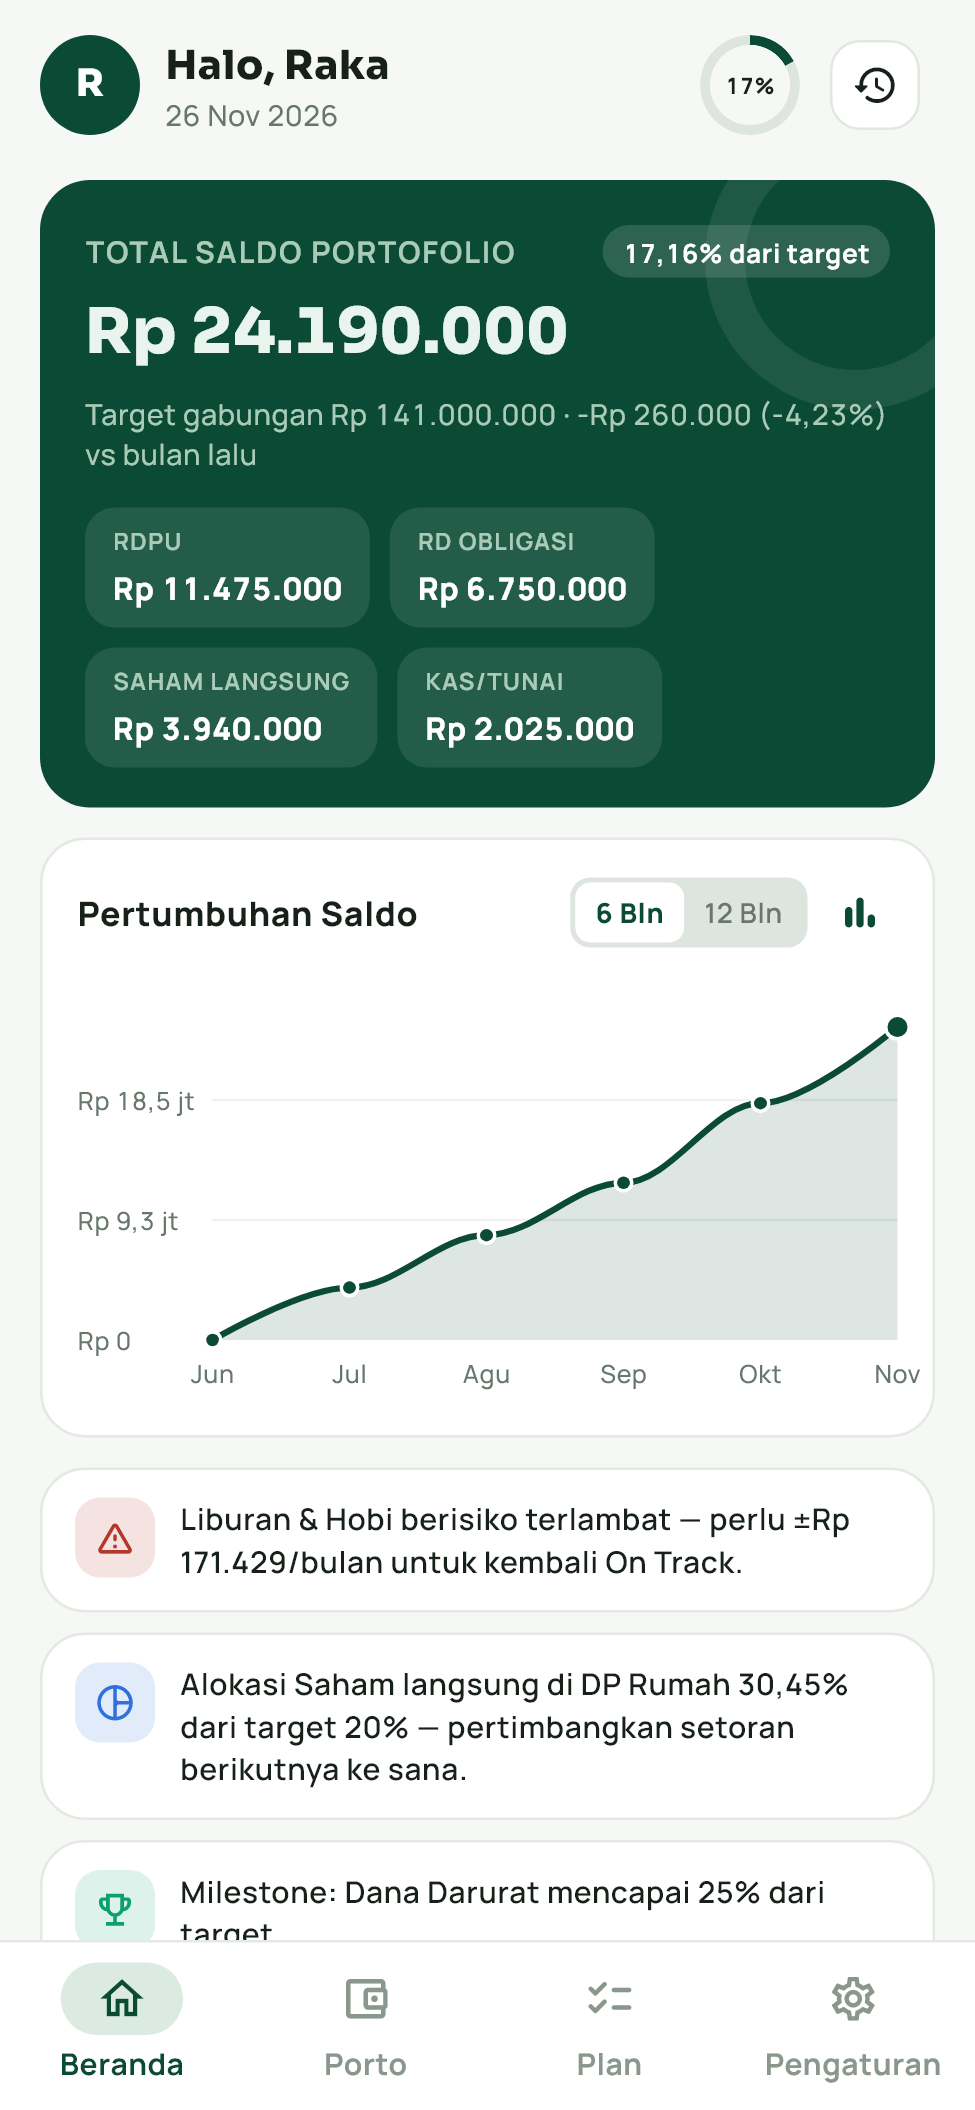
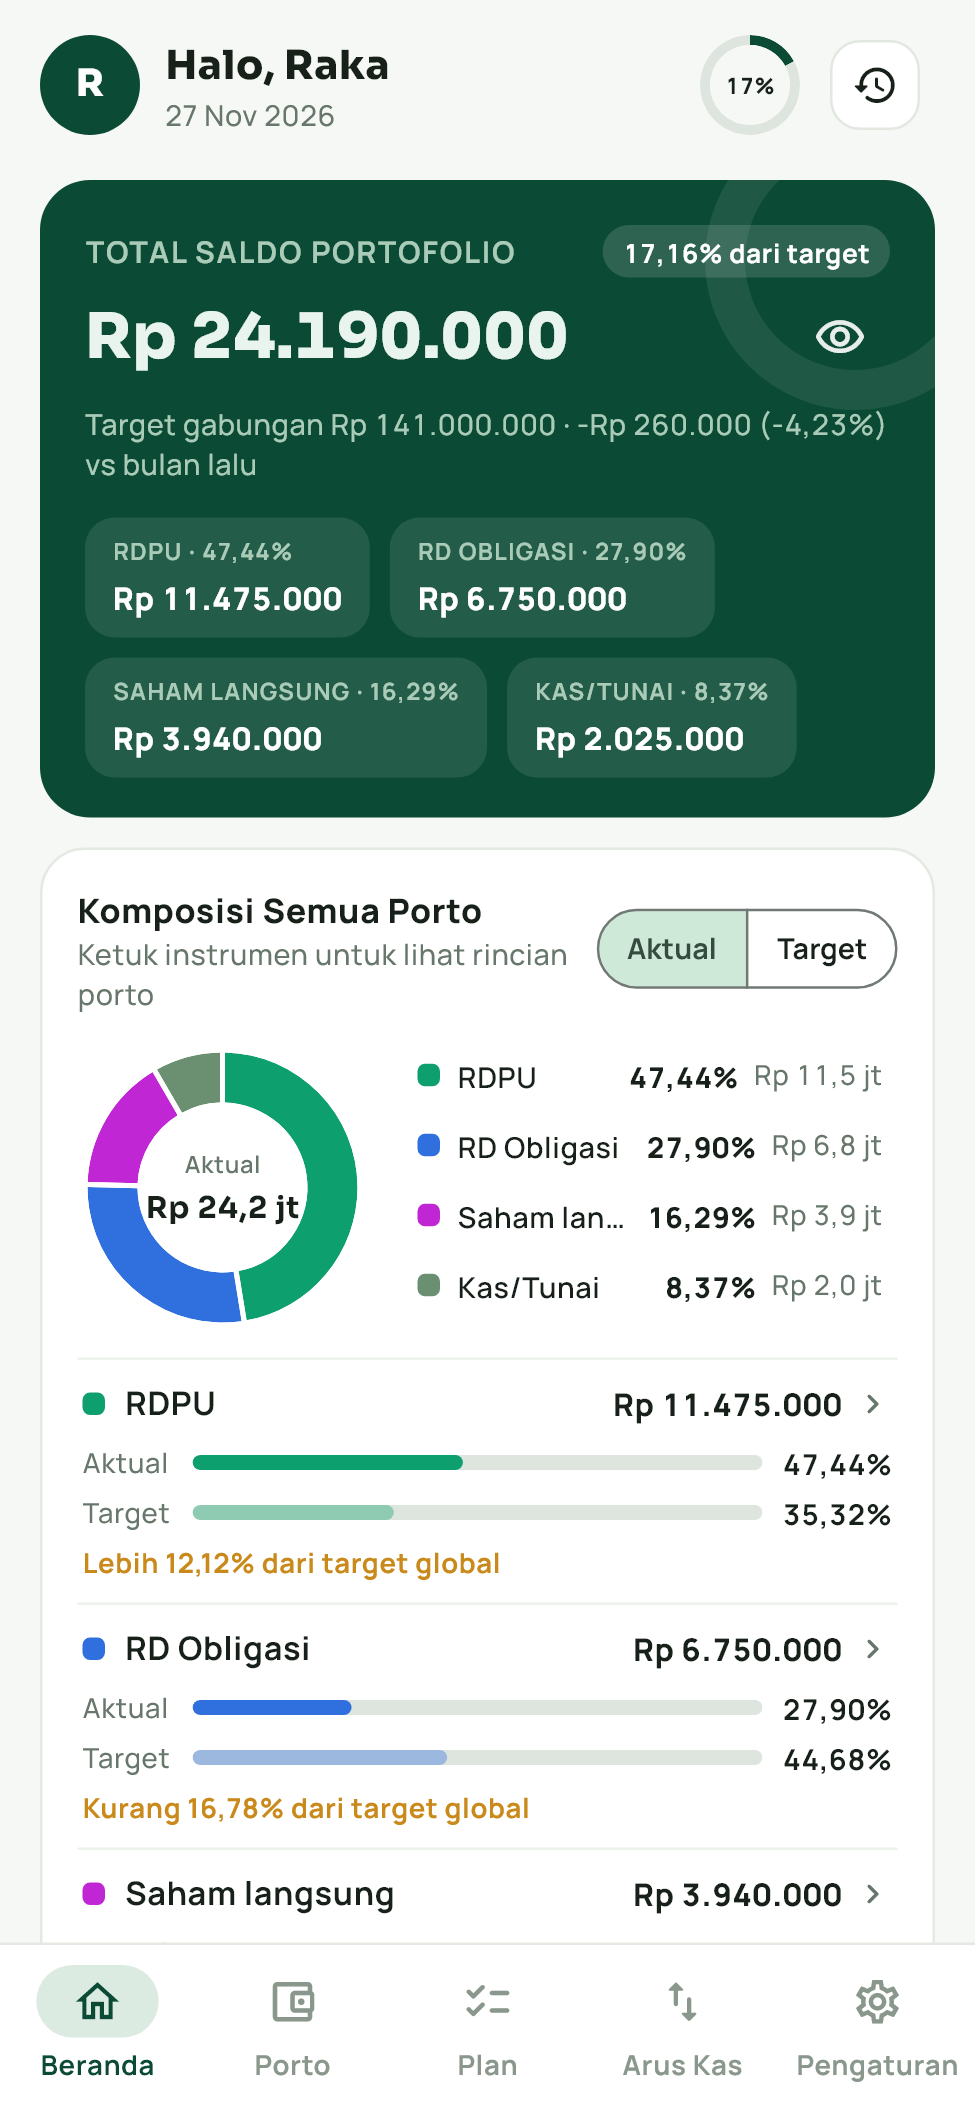
Update README, PRIVACY, docs/ARCHITECTURE, dan 9 screenshot preview v3.3.0

diff --git a/README.md b/README.md
@@ -1,18 +1,19 @@
 <div align="center">
   <img src="assets/logo/planora_logo.svg" alt="Logo Planora" width="104" height="104" />
   <h1>Planora</h1>
-  <p><strong>Aplikasi Android untuk merencanakan banyak tujuan keuangan dalam satu batas aman setoran bulanan — rapi, praktis, dan 100% offline.</strong></p>
+  <p><strong>Aplikasi Android untuk merencanakan banyak tujuan keuangan, memantau komposisi aset, dan mencatat arus kas harian dalam satu tempat — rapi, praktis, dan 100% offline.</strong></p>
 
   <p>
     <a href="https://github.com/Dzakiamriz22/Planora/releases/latest">
-      <img src="https://img.shields.io/badge/Unduh_APK-v3.1.0-0B4A34?style=for-the-badge&logo=android&logoColor=white" alt="Unduh APK Planora v3.1.0" />
+      <img src="https://img.shields.io/badge/Unduh_APK-v3.3.0-0B4A34?style=for-the-badge&logo=android&logoColor=white" alt="Unduh APK Planora v3.3.0" />
     </a>
   </p>
 
   <p>
-    <img src="https://img.shields.io/badge/Versi-3.1.0-0B4A34?style=flat-square" alt="Versi 3.1.0" />
+    <img src="https://img.shields.io/badge/Versi-3.3.0-0B4A34?style=flat-square" alt="Versi 3.3.0" />
     <img src="https://img.shields.io/badge/Android-Offline-3DDC84?style=flat-square&logo=android&logoColor=white" alt="Android Offline" />
     <img src="https://img.shields.io/badge/Flutter-3.50+-02569B?style=flat-square&logo=flutter&logoColor=white" alt="Flutter" />
+    <img src="https://img.shields.io/badge/Skema_DB-v6-43524A?style=flat-square" alt="Skema DB v6" />
     <img src="https://img.shields.io/badge/Lisensi-MIT-43524A?style=flat-square" alt="Lisensi MIT" />
   </p>
 </div>
@@ -21,70 +22,73 @@
 
 ## Tentang Planora
 
-Menyiapkan dana darurat, DP rumah, kendaraan, dan tabungan jangka panjang secara bersamaan sering membingungkan jika dicatat terpisah. Total setoran bisa tanpa sadar melewati kemampuan bulanan, sementara perkiraan waktu tercapainya tidak ikut menyesuaikan saat nominal berubah.
+Menyiapkan dana darurat, DP rumah, kendaraan, dan tabungan jangka panjang sekaligus mengatur arus kas bulanan sering membingungkan jika dicatat terpisah. Total setoran bisa tanpa sadar melewati kemampuan bulanan, komposisi aset tidak terlihat menyeluruh, dan sisa kas bulanan sulit dipantau.
 
-**Planora** menyatukan semua rencana tersebut di satu tempat. Cukup atur penghasilan, biaya hidup, dan tujuan keuanganmu — sisanya dihitung otomatis dan tersimpan sepenuhnya di HP tanpa akun maupun internet.
+**Planora** menyatukan perencanaan portofolio, pembagian setoran bulanan (**Plan**), dan catatan **Arus Kas** (pemasukan & pengeluaran) di satu aplikasi. Semua perhitungan berjalan otomatis dan seluruh data tersimpan lokal di HP tanpa akun maupun izin internet.
 
-### Yang Bisa Dilakukan
+### Fitur Utama
 
-- **Jaga batas aman setoran bulanan (plafon)** — Dihitung otomatis dari gaji dikurangi biaya hidup minimum. Jika rencana melebihi batas, Planora menampilkan pratinjau penyesuaian porsi tujuan lain terlebih dahulu sebelum disimpan.
-- **Plan berbasis persentase** — Bagi total setoran bulananmu ke tiap portofolio memakai persen (dilengkapi slider, donut live, preset cepat, mode kalkulator rupiah, dan dukungan simpan draf). Saat gaji berubah, cukup ganti total Plan tanpa mengedit satu per satu.
-- **Tiga jenis tujuan yang fleksibel** — *Tunai Penuh* untuk dana darurat atau liburan, *DP + Biaya* agar harga penuh tetap tercatat sementara target nabung fokus ke DP, serta *Tanpa Target* untuk tabungan atau investasi rutin.
-- **Komponen instrumen berbasis persen & Saham berbasis lot** — Atur porsi instrumen (RDPU, Obligasi, Campuran, RD Saham, Emas, Kas, Deposito) dengan persen, serta catat **Saham langsung** secara akurat dalam **lot** (`1 lot = 100 lembar`) lengkap dengan kode saham, harga beli rata-rata, penjualan metode biaya rata-rata, dan riwayat transaksi.
-- **Pantau progres lewat grafik yang jelas** — Donut alokasi (Aktual vs Target), perbandingan alokasi per instrumen, komposisi per kode saham, grafik pertumbuhan saldo 6/12 bulan, ringkasan setoran bulanan, status progres, insight otomatis, serta streak menabung.
-- **Pengingat lokal tanpa internet** — Atur pengingat setoran bulanan sesuai Plan aktif dan notifikasi milestone (25/50/75/100%) langsung dari HP dengan izin notifikasi resmi Android 13+. Tidak ada data yang dikirim ke server mana pun.
-- **Cadangan data mandiri (JSON)** — Simpan file cadangan langsung ke penyimpanan HP atau bagikan, lalu pulihkan kembali kapan dibutuhkan (kompatibel lintas versi v1–v3.1).
+- **Batas Tabungan Bulanan & Rebalance Otomatis** — Dihitung dari gaji dikurangi biaya hidup minimum. Jika total rencana setoran melewati batas, Planora menampilkan pratinjau penyesuaian proporsional sebelum disimpan.
+- **Plan Berbasis Persentase & Nominal Tepat** — Bagi dana tabungan bulanan ke tiap portofolio lewat mode **% Persen** (slider, donut live, preset cepat, simpan draf) atau **Rp Nominal** yang tersimpan persis tanpa bergeser akibat pembulatan. Plan aktif otomatis memperbarui setoran bulanan tiap portofolio dan dapat dinonaktifkan kapan saja.
+- **Komposisi Instrumen Per Porto & Global** — Atur porsi instrumen (RDPU, Obligasi, Campuran, RD Saham, Emas, Kas, Deposito, atau custom) per portofolio, lalu pantau agregasi seluruh aset lewat kartu **Komposisi Semua Porto** (persen aktual global, target global tertimbang, serta rincian per portofolio).
+- **Saham Langsung Berbasis Lot (`1 lot = 100 lembar`)** — Catat beli/jual saham langsung berdasarkan kode saham, jumlah lot, dan harga per lembar dengan perhitungan harga rata-rata (average cost), total modal, dan riwayat transaksi lengkap.
+- **Arus Kas (Pemasukan + Pengeluaran)** — Catat pemasukan dan pengeluaran harian dalam ≤ 3 ketukan dengan kategori terpisah per jenis (5 kategori pemasukan + 10 kategori pengeluaran bawaan + kategori custom). Pantau **Sisa Kas Bulan Ini** (`Pemasukan aktual − Pengeluaran − Setoran ke portofolio`), budget pengeluaran (On Track / Hati-hati / Over Budget), donut kategori, ringkasan mingguan, dan grafik 6 bulan vs budget.
+- **Mode Privasi (Sembunyikan Nominal)** — Ketuk ikon mata di Beranda atau saklar di Pengaturan untuk menyamarkan seluruh angka rupiah (`Rp ••••••`) di layar, grafik, hingga isi notifikasi — sementara persentase, progress bar, dan status tetap dapat dibaca.
+- **Pengingat Lokal Offline** — Pengingat setoran bulanan sesuai Plan aktif, pengingat catat arus kas harian, dan notifikasi milestone portofolio (`25/50/75/100%`) langsung di perangkat tanpa server.
+- **Cadangan Data Mandiri (JSON)** — Ekspor dan pulihkan seluruh data (termasuk Arus Kas, Saham, dan Plan) lewat file JSON lokal dengan kompatibilitas lintas versi.
+
+---
+
+## Preview Aplikasi
+
+### 5 Tab Utama
+
+| Beranda | Portofolio | Plan | Arus Kas | Pengaturan |
+| :---: | :---: | :---: | :---: | :---: |
+| <img src="docs/screenshots/01-beranda.png" alt="Beranda Planora" width="170" /> | <img src="docs/screenshots/03-portofolio.png" alt="Portofolio Planora" width="170" /> | <img src="docs/screenshots/04-plan.png" alt="Plan Planora" width="170" /> | <img src="docs/screenshots/05-arus-kas.png" alt="Arus Kas Planora" width="170" /> | <img src="docs/screenshots/06-pengaturan.png" alt="Pengaturan Planora" width="170" /> |
+
+### Mode Privasi, Detail Portofolio & Formulir
+
+| Mode Privasi (Beranda) | Detail Porto & Saham Lot | Form Portofolio | Form Plan |
+| :---: | :---: | :---: | :---: |
+| <img src="docs/screenshots/02-beranda-privasi.png" alt="Beranda Mode Privasi" width="195" /> | <img src="docs/screenshots/07-detail-porto.png" alt="Detail Porto dan Saham Lot" width="195" /> | <img src="docs/screenshots/08-form-porto.png" alt="Form Portofolio" width="195" /> | <img src="docs/screenshots/09-form-plan.png" alt="Form Plan" width="195" /> |
+
+<sub>*Angka, transaksi, dan kode saham pada gambar di atas hanya contoh ilustrasi. Instalasi baru selalu dimulai dari keadaan kosong (`Rp 0`).*</sub>
 
 ---
 
 ## Unduh & Pasang di Android
 
-Untuk langsung mencoba di HP Android tanpa perlu instalasi alat pengembang:
-
-1. **Unduh file APK:** [Planora-v3.1.0.apk](https://github.com/Dzakiamriz22/Planora/releases/download/v3.1.0/Planora-v3.1.0.apk) *(atau pilih versi di halaman [Releases](https://github.com/Dzakiamriz22/Planora/releases/latest))*.
-2. Buka file `.apk` yang selesai diunduh di HP.
-3. Jika muncul permintaan izin *Instal aplikasi dari sumber tidak dikenal*, izinkan agar pemasangan bisa dilanjutkan.
-4. Saat pertama kali dibuka, Planora mulai dalam keadaan kosong (`Rp 0`) supaya kamu bisa langsung mengisi rencana sesuai kondisi sendiri.
+1. **Unduh APK terbaru:** [Planora-v3.3.0.apk](https://github.com/Dzakiamriz22/Planora/releases/download/v3.3.0/Planora-v3.3.0.apk) *(atau pilih rilis di halaman [Releases](https://github.com/Dzakiamriz22/Planora/releases/latest))*.
+2. Buka file `.apk` di HP Android kamu lalu pilih **Instal / Update** *(data dari versi lama otomatis termigrasi aman)*.
+3. Jika diminta izin *Instal aplikasi dari sumber tidak dikenal*, izinkan untuk melanjutkan pemasangan.
 
 ---
 
-## Tampilan Aplikasi
+## Teknologi & Dokumentasi
 
-### Halaman Utama
+- **Flutter & Dart** — Antarmuka adaptif mode terang/gelap, logo vektor **Tangga Tujuan**, dan font lokal (`Sora`, `Manrope`, `JetBrains Mono`) agar tetap tajam saat offline.
+- **Drift (SQLite, skema v6)** — 11 tabel lokal dengan migrasi bertahap yang teruji dan terverifikasi.
+- **Riverpod** — State management reaktif untuk sinkronisasi langsung antar layar.
+- **fl_chart** — Donut alokasi, bar perbandingan Aktual vs Target, grafik pertumbuhan saldo 6/12 bulan, stacked bar setoran, sparkline, dan grafik pengeluaran 6 bulan vs budget.
+- **flutter_local_notifications** — Pengingat lokal di perangkat dengan izin minimal (`POST_NOTIFICATIONS` & `RECEIVE_BOOT_COMPLETED`).
+- **go_router** — Navigasi 5 tab utama (`StatefulShellRoute.indexedStack`) dan rute detail/formulir.
 
-| Beranda | Portofolio | Plan | Pengaturan |
-| :---: | :---: | :---: | :---: |
-| <img src="docs/screenshots/01-beranda.png" alt="Beranda Planora" width="210" /> | <img src="docs/screenshots/02-portofolio.png" alt="Portofolio Planora" width="210" /> | <img src="docs/screenshots/03-plan.png" alt="Plan Planora" width="210" /> | <img src="docs/screenshots/04-pengaturan.png" alt="Pengaturan Planora" width="210" /> |
-
-### Detail & Formulir
-
-| Detail Porto & Saham Lot | Form Porto | Form Plan (%) |
-| :---: | :---: | :---: |
-| <img src="docs/screenshots/05-detail-porto.png" alt="Detail Porto" width="230" /> | <img src="docs/screenshots/06-form-porto.png" alt="Form Porto" width="230" /> | <img src="docs/screenshots/07-form-plan.png" alt="Form Plan" width="230" /> |
-
-<sub>*Angka dan kode pada gambar di atas hanya contoh ilustrasi. Instalasi baru selalu dimulai dari kosong tanpa data bawaan.*</sub>
-
----
-
-## Teknologi
-
-- **Flutter & Dart** — Antarmuka bersih dengan dukungan mode terang/gelap mengikuti sistem, logo vektor **Tangga Tujuan**, dan font lokal (Sora & Manrope) agar tetap rapi saat offline.
-- **Drift (SQLite)** — Penyimpanan data lokal di perangkat dengan migrasi skema aman dan struktur siap cloud.
-- **Riverpod** — Pengelolaan state reaktif agar perubahan angka langsung terlihat di seluruh layar.
-- **fl_chart** — Visualisasi donut, bar perbandingan, grafik pertumbuhan saldo, dan sparkline.
-- **flutter_local_notifications** — Pengingat lokal di perangkat (`POST_NOTIFICATIONS` & `RECEIVE_BOOT_COMPLETED` saja, tanpa izin internet).
-- **go_router** — Navigasi antar halaman dan 4 tab utama.
+Dokumentasi tambahan:
+- [Arsitektur & Skema Database](docs/ARCHITECTURE.md)
+- [Kebijakan Privasi](PRIVACY.md)
 
 ---
 
 ## Menjalankan dari Kode Sumber
 
-Untuk menjalankan atau mengembangkan proyek ini secara lokal, pastikan **Flutter SDK (3.50+)**, **Java JDK 17**, dan **Android SDK** sudah terpasang.
+Pastikan **Flutter SDK (3.50+)**, **Java JDK 17**, dan **Android SDK** sudah terpasang.
 
 ```bash
 git clone https://github.com/Dzakiamriz22/Planora.git
 cd Planora
 flutter pub get
+flutter analyze
 flutter test
 flutter run
 ```
@@ -93,8 +97,8 @@ flutter run
 
 ## Privasi & Batasan
 
-- **Sepenuhnya lokal di perangkat:** Planora tidak memiliki server, tidak memerlukan akun, tidak memuat iklan maupun pelacak, tidak meminta izin internet, dan tidak terhubung ke rekening bank atau akun investasi mana pun. Selengkapnya dapat dibaca di [PRIVACY.md](PRIVACY.md).
-- **Alat bantu perencanaan:** Planora dibuat sebagai catatan dan kalkulator perencanaan pribadi, bukan penasihat keuangan. Estimasi waktu tercapai maupun simulasi cicilan bersifat ilustratif sesuai angka yang kamu masukkan.
+- **100% offline & lokal:** Tanpa server, tanpa akun, tanpa iklan/pelacak, **tanpa izin internet**, tanpa izin penyimpanan, dan tidak terhubung ke rekening bank atau sekuritas mana pun.
+- **Bukan penasihat keuangan:** Estimasi waktu tercapai, proyeksi, dan simulasi cicilan bersifat ilustratif berdasarkan angka yang kamu masukkan sendiri.
 
 ---
 

diff --git a/docs/ARCHITECTURE.md b/docs/ARCHITECTURE.md
@@ -1,0 +1,59 @@
+# Arsitektur & Skema Database Planora (v3.3.0)
+
+Dokumen ini merangkum struktur kode, lapisan perhitungan, skema database SQLite (Drift), dan aturan privasi yang berjalan di kode Planora saat ini.
+
+## 1. Struktur Proyek
+
+```text
+lib/
+├── app.dart                         # Router GoRouter (5 tab utama + rute detail/form)
+├── main.dart                        # Entry point, inisialisasi DB & notifikasi tanpa minta izin
+├── core/
+│   ├── calc/
+│   │   ├── planora_calc.dart        # Plafon nabung, kebutuhan bulanan, rebalance, cicilan
+│   │   ├── planora_v22_calc.dart    # Persen komponen, auto-balance, split setoran, insight, streak
+│   │   ├── plan_percent_calc.dart   # Plan berbasis persen (sharePercentX100) & preset
+│   │   ├── stock_lot_calc.dart      # Saham langsung berbasis lot (1 lot = 100 lbr, average cost)
+│   │   ├── global_composition_calc.dart # Agregasi persen instrumen lintas semua portofolio
+│   │   └── cash_flow_calc.dart      # Arus kas bulanan, sisa kas, budget status, saran anti-dobel
+│   ├── format/formatters.dart       # Formatter rupiah/persen/tanggal + lapisan Mode Privasi terpusat
+│   ├── notifications/reminder_service.dart # Penjadwal lokal & rationale dialog Android 13+
+│   └── theme/                       # Token warna, tipografi lokal (Sora/Manrope/JetBrains Mono)
+├── data/
+│   ├── db/
+│   │   ├── tables.dart              # Definisi 11 tabel Drift
+│   │   ├── app_database.dart        # Migrasi skema 1 -> 6 yang idempotent & terverifikasi
+│   │   └── seed_data.dart           # Initial state kosong + seed 5 kategori pemasukan & 10 pengeluaran
+│   └── repositories/                # Portfolio, Plan, Stock, CashFlow, Profile, Settings (JSON backup)
+├── features/
+│   ├── home/                        # Beranda, GlobalCompositionCard, Arus Kas ringkas
+│   ├── portfolios/                  # Daftar, Detail, Form Porto, Setoran, Saham Lot, Riwayat
+│   ├── plans/                       # Daftar & Form Plan (% Persen / Rp Nominal tepat)
+│   ├── cashflow/                    # Tab Arus Kas, entri cepat Pemasukan/Pengeluaran, kelola kategori
+│   ├── settings/                    # Profil Keuangan, Mode Privasi, Pengingat Lokal, Ekspor/Impor/Reset
+│   ├── profile/                     # Profil lokal & preferensi tema
+│   └── onboarding/ & splash/
+└── widgets/                         # Komponen UI bersama, grafik fl_chart, logo vektor Tangga Tujuan
+```
+
+## 2. Skema Database (Drift — `schemaVersion: 6`)
+
+| No | Tabel | Keterangan |
+|---:|---|---|
+| 1 | `user_profiles` | Profil lokal (nama sapaan, foto lokal, preferensi tema) |
+| 2 | `settings` | Gaji rencana, biaya hidup, return default, batas Plan, pengingat, `hide_amounts` |
+| 3 | `portfolios` | Daftar tujuan keuangan (`cash`, `down_payment`, `no_target`) |
+| 4 | `portfolio_components` | Alokasi instrumen per porto (`target_percent`, `actual_amount`, `mechanism`, `legacy_opening_amount`) |
+| 5 | `contributions` | Catatan setoran & penyesuaian saldo portofolio |
+| 6 | `stock_transactions` | Transaksi beli/jual saham langsung berbasis lot |
+| 7 | `plans` | Daftar Plan bulanan (`total_amount`, `is_active`) |
+| 8 | `plan_allocations` | Porsi tiap porto dalam Plan (`share_percent_x100`, opsional `fixed_amount`) |
+| 9 | `price_references` | Catatan referensi harga pribadi |
+| 10 | `cash_flow_categories` | Kategori Arus Kas terpisah per `type` (`income` / `expense`), mendukung sembunyikan |
+| 11 | `cash_flow_transactions` | Transaksi Pemasukan (+) & Pengeluaran (−) dengan soft delete (`deleted_at`) |
+
+## 3. Prinsip Arsitektur & Privasi
+
+- **Rumus terpisah dari UI:** Seluruh logika perhitungan uang berada di `lib/core/calc/` sebagai fungsi murni sehingga mudah diuji unit.
+- **Anti dobel antara Arus Kas dan Plan/Portofolio:** Gaji di Profil Keuangan tetap merupakan *rencana* untuk batas tabungan & Plan; catatan pemasukan di Arus Kas adalah *aktual* dan tidak pernah otomatis mengubah gaji rencana, Plan, maupun saldo portofolio.
+- **Izin Android minimal:** Release manifest hanya memuat `POST_NOTIFICATIONS` dan `RECEIVE_BOOT_COMPLETED` (tanpa `INTERNET`, tanpa exact alarm, dan tanpa izin penyimpanan).

diff --git a/PRIVACY.md b/PRIVACY.md
@@ -2,9 +2,9 @@
 
 Planora dibuat agar data keuangan pribadi kamu tetap menjadi milik kamu sepenuhnya.
 
-- **Semua data disimpan lokal di HP:** Profil, penghasilan, tujuan tabungan, rincian instrumen, catatan setoran, transaksi saham, Plan, catatan harga, dan foto profil hanya tersimpan di penyimpanan internal HP kamu.
+- **Semua data disimpan lokal di HP:** Profil, penghasilan, biaya hidup, tujuan tabungan, rincian instrumen, catatan setoran, transaksi saham, Plan, catatan arus kas (pemasukan dan pengeluaran), catatan harga, dan foto profil hanya tersimpan di penyimpanan internal HP kamu.
 - **Tanpa akun & tanpa internet:** Planora tidak meminta pendaftaran/login, tidak memakai izin internet, dan tidak mengirim data apa pun ke server luar.
-- **Izin minimal untuk pengingat lokal:** Jika kamu menyalakan pengingat di Pengaturan, Planora hanya meminta izin notifikasi (`POST_NOTIFICATIONS`) dan menggunakan penjadwalan ulang setelah perangkat menyala (`RECEIVE_BOOT_COMPLETED`). Pengingat dibuat lokal di HP tanpa server.
-- **Mode Privasi tampilan:** Kamu dapat menyembunyikan seluruh nominal rupiah di layar maupun isi notifikasi kapan saja lewat tombol mata di Beranda atau menu Pengaturan.
+- **Izin minimal untuk pengingat lokal:** Jika kamu menyalakan pengingat setoran bulanan, pengingat arus kas harian, atau notifikasi milestone di Pengaturan, Planora hanya meminta izin notifikasi (`POST_NOTIFICATIONS`) dan menggunakan penjadwalan ulang setelah perangkat menyala (`RECEIVE_BOOT_COMPLETED`). Pengingat dibuat lokal di HP tanpa server.
+- **Mode Privasi tampilan:** Kamu dapat menyembunyikan seluruh nominal rupiah di layar, grafik, maupun isi notifikasi kapan saja lewat tombol mata di Beranda atau menu Pengaturan.
 - **Tidak terhubung ke rekening atau aplikasi lain:** Nama tempat simpanan yang kamu tulis di aplikasi hanyalah catatan pribadi. Planora tidak pernah meminta password, PIN, atau akses akun keuangan mana pun.
 - **Kendali penuh di tangan kamu:** Kamu bebas mengekspor data ke file JSON untuk cadangan pribadi, memulihkannya lagi, atau menghapus semuanya lewat menu Hapus Semua Data di Pengaturan.
